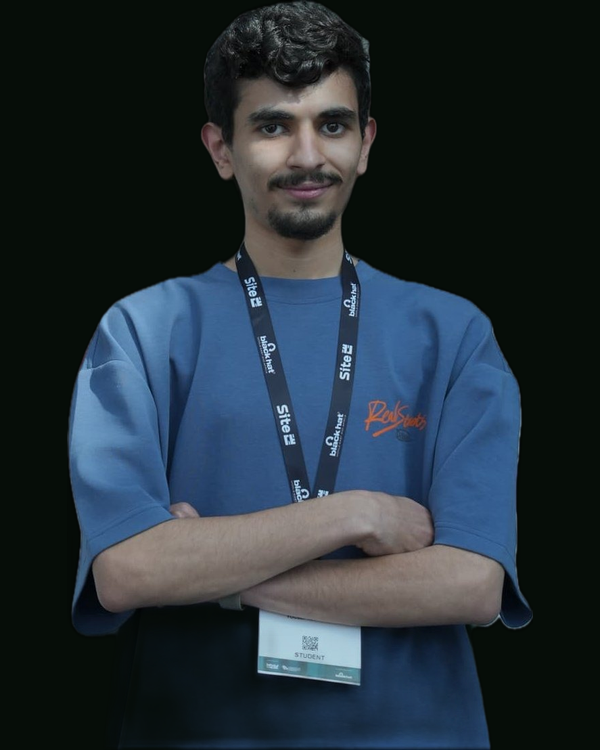
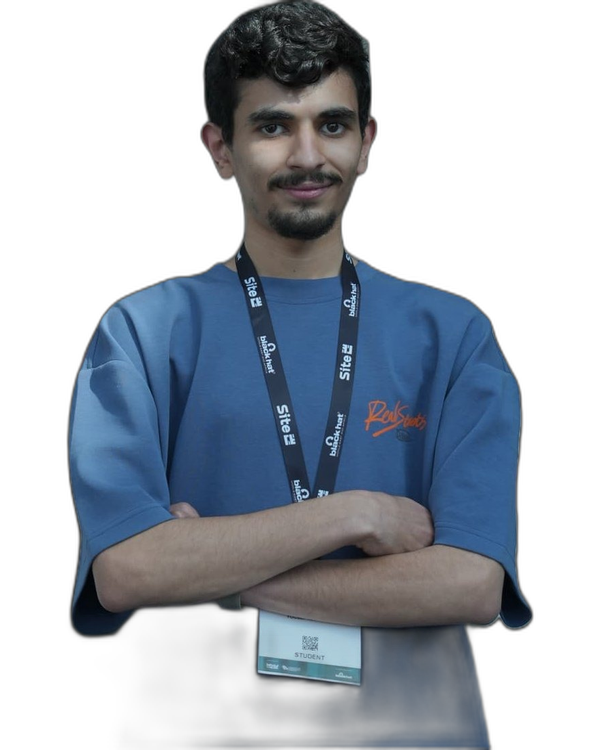
Make hero photo float transparently on any background
- Re-process photo as RGBA PNG with true transparency (alpha=0 in bg areas)
- Remove all dark container hacks ([data-theme=light] .hero-photo background overrides)
- Photo now naturally floats on dark green in dark mode, parchment in light mode

diff --git a/index.html b/index.html
@@ -83,8 +83,6 @@
 [data-theme="light"] .project-card:hover{box-shadow:0 4px 20px rgba(0,0,0,0.10),0 0 0 1px rgba(92,175,126,0.2)!important;border-color:rgba(92,175,126,0.25)!important;}
 [data-theme="light"] .small-card{background:#FFFFFF!important;border:1px solid rgba(10,26,13,0.10)!important;box-shadow:0 1px 4px rgba(0,0,0,0.06)!important;}
 [data-theme="light"] .small-card:hover{box-shadow:0 4px 16px rgba(0,0,0,0.09),0 0 0 1px rgba(92,175,126,0.18)!important;border-color:rgba(92,175,126,0.22)!important;}
-[data-theme="light"] .hero-photo{background:#111A12;border-radius:20px;overflow:hidden;box-shadow:0 20px 60px rgba(0,0,0,0.18),0 0 0 1px rgba(92,175,126,0.12);}
-[data-theme="light"] .hero-photo img{display:block;border-radius:0;}
 [data-theme="light"] .card-badge{background:rgba(10,26,13,0.06);color:#2A5A35;border-color:rgba(10,26,13,0.12);}
 [data-theme="light"] .badge-live{background:rgba(92,175,126,0.12);color:#1A6B3A;border-color:rgba(92,175,126,0.25);}
 [data-theme="light"] .skill-row{border-color:rgba(10,26,13,0.1);}
@@ -650,9 +648,6 @@ section{
   .skill-row{grid-template-columns:48px 1fr;}
   .contact-links{grid-template-columns:1fr;}
 }
-/* ── Photo frame fix in light mode ── */
-[data-theme="light"] .hero-photo{background:#0D1A0F;border-radius:20px;overflow:hidden;box-shadow:0 20px 60px rgba(0,0,0,0.20),0 0 0 1px rgba(92,175,126,0.15);}
-[data-theme="light"] .hero-photo img{border-radius:0!important;display:block;}
 </style>
 </head>
 <body>
